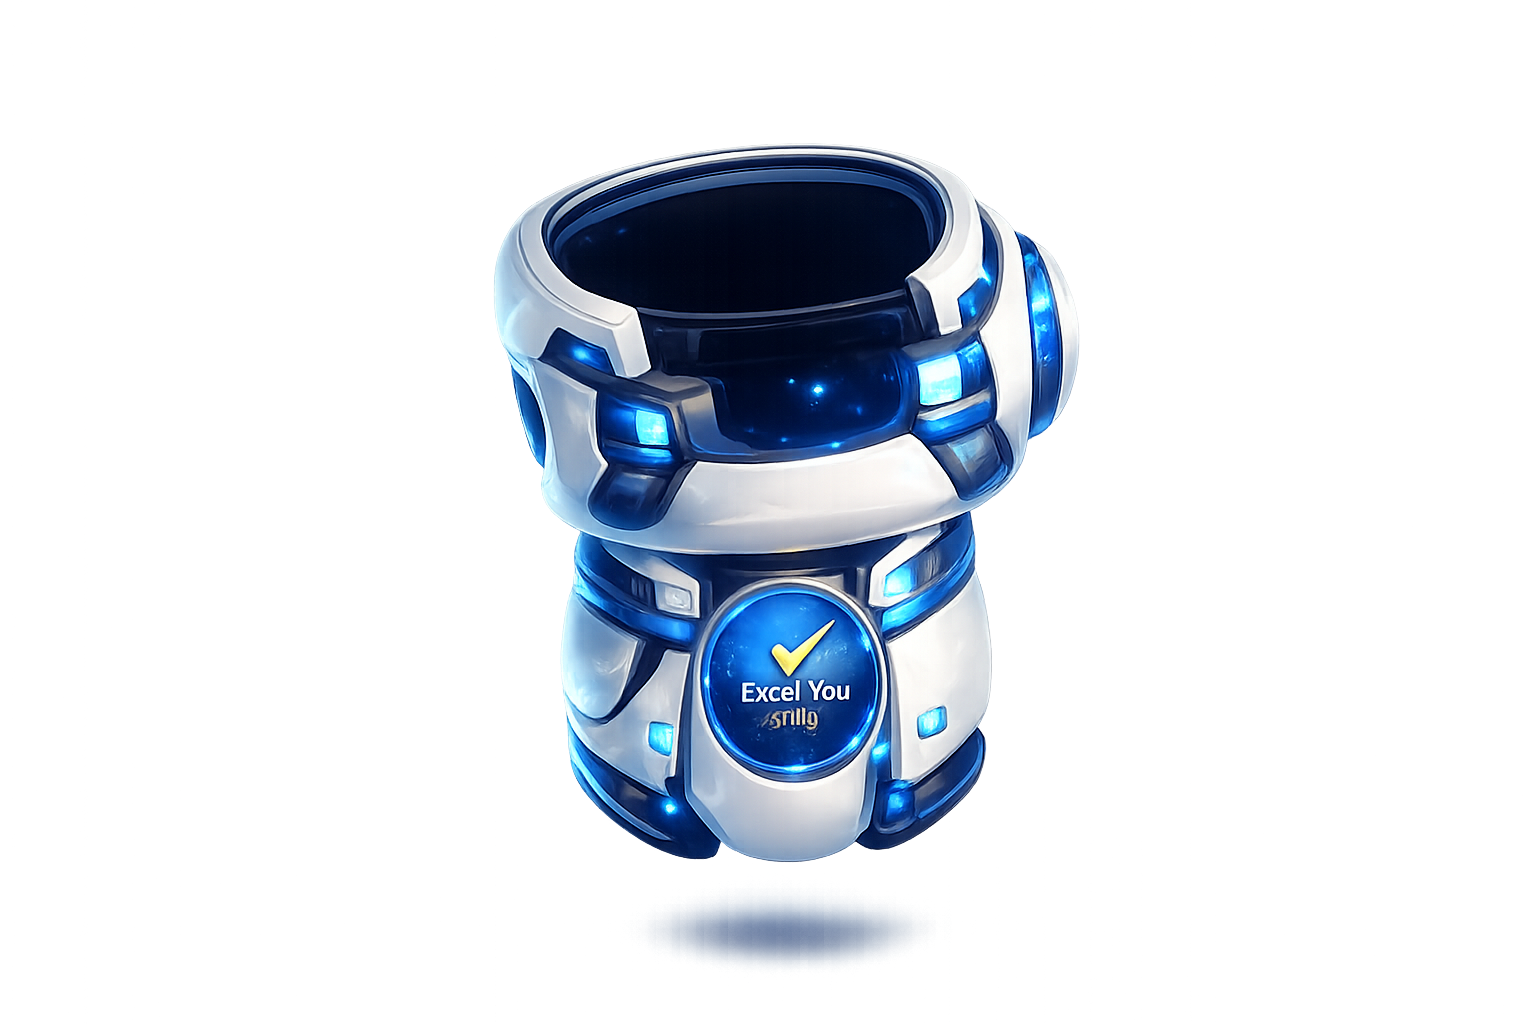
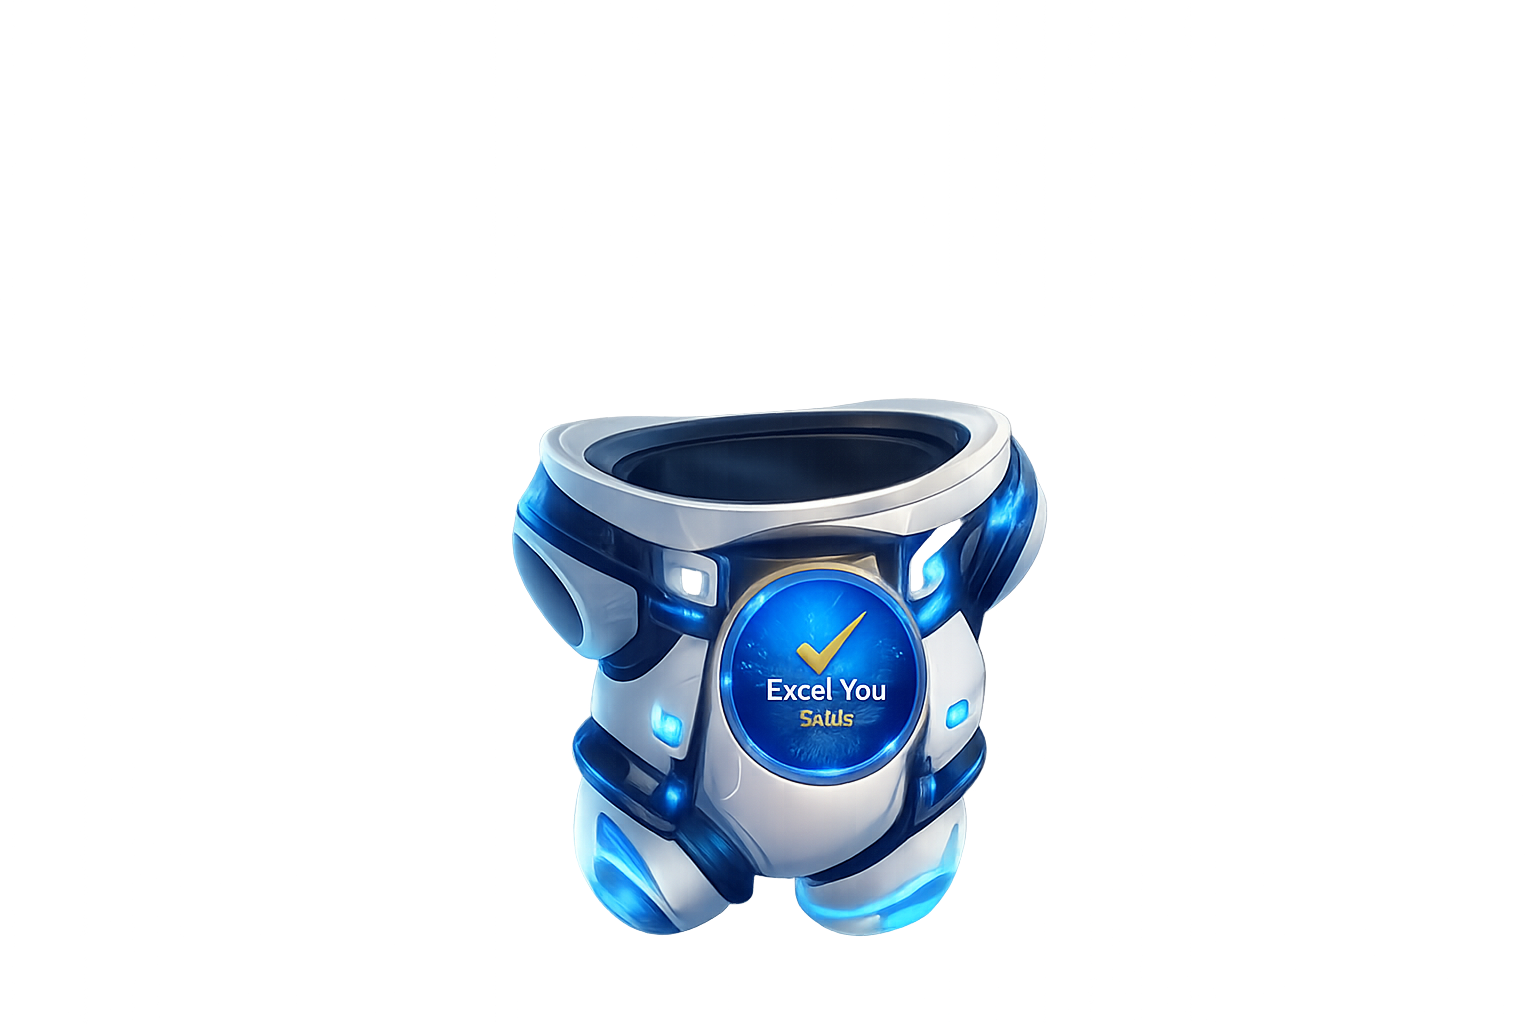
fix mongo session

Changed region(s): [[0.3125, 0.125, 0.7188, 0.9375]]

diff --git a/public/student-login.html b/public/student-login.html
@@ -209,84 +209,15 @@
      ROBOT CONTAINER
 ========================================== -->
 
-<div class="robot-container">
-
-    <!-- Shadow -->
-    <img src="/assets/BUBBLE ROBO/shadow.png"
-         class="robot-part shadow"
-         alt="">
-
-    <!-- Left Wing -->
-    <img src="/assets/BUBBLE ROBO/left wing.png"
-         class="robot-part left-wing"
-         alt="">
-
-    <!-- Right Wing -->
-    <img src="/assets/BUBBLE ROBO/right wing.png"
-         class="robot-part right-wing"
-         alt="">
-
-    <!-- Body -->
+   <!-- Body -->
     <img src="/assets/BUBBLE ROBO/body.png"
-         class="robot-part body"
+         class="robot-body"
          alt="">
 
-    <!-- Left Arm -->
-    <img src="/assets/BUBBLE ROBO/left arm.png"
-         class="robot-part left-arm"
-         alt="">
-
-    <!-- Right Arm -->
-    <img src="/assets/BUBBLE ROBO/right arm.png"
-         class="robot-part right-arm"
-         alt="">
-
-    <!-- Left Hand -->
-    <img src="/assets/BUBBLE ROBO/left hand.png"
-         class="robot-part left-hand"
-         alt="">
-
-    <!-- Right Hand -->
-    <img src="/assets/BUBBLE ROBO/right hand.png"
-         class="robot-part right-hand"
-         alt="">
-
-    <!-- Left Foot -->
-    <img src="/assets/BUBBLE ROBO/left foot.png"
-         class="robot-part left-foot"
-         alt="">
-
-    <!-- Right Foot -->
-    <img src="/assets/BUBBLE ROBO/right foot.png"
-         class="robot-part right-foot"
-         alt="">
-
-    <!-- Head -->
+<!-- Head -->
     <img src="/assets/BUBBLE ROBO/head.png"
-         class="robot-part head"
+         class="robot-head"
          alt="">
-
-    <!-- Left Eye -->
-    <img src="/assets/BUBBLE ROBO/left eye.png"
-         class="robot-part left-eye"
-         alt="">
-
-    <!-- Right Eye -->
-    <img src="/assets/BUBBLE ROBO/right eye.png"
-         class="robot-part right-eye"
-         alt="">
-
-    <!-- Smile -->
-    <img src="/assets/BUBBLE ROBO/smile.png"
-         class="robot-part smile"
-         alt="">
-
-    <!-- Halo -->
-    <img src="/assets/BUBBLE ROBO/hola.png"
-         class="robot-part halo"
-         alt="">
-
-</div>   
 
 
 </div>

diff --git a/public/student/css/CENTER-HOLOGRAM.CSS b/public/student/css/CENTER-HOLOGRAM.CSS
@@ -1,107 +1,72 @@
-/*==========================================
-    ROBOT CONTAINER
-==========================================*/
+/*==============================
+    CENTER PANEL
+==============================*/
 
-.robot-container{
+.robot-panel{
 
     position:relative;
 
-    width:450px;
-    height:750px;
+    width:500px;
+    height:650px;
 
     margin:auto;
+
+    overflow:visible;
 
     display:flex;
     justify-content:center;
     align-items:center;
 
-    overflow:visible;
-
 }
 
 
-/*==========================================
-    COMMON PARTS
-==========================================*/
+/*==============================
+        BODY
+==============================*/
 
-.robot-part{
+.robot-body{
 
     position:absolute;
-
-    width:450px;
-    height:auto;
 
     left:50%;
     top:50%;
 
-    transform:translate(-50%,-50%);
+    transform:translate(-50%,-50%) scale(.82);
 
-    user-select:none;
+
+    width:580px;   /* Change this value */
+    height:550px;
+
+    object-fit:contain;
+
+    z-index:20;
+
     pointer-events:none;
 
 }
 
 
-/*==========================================
-    LAYER ORDER
-==========================================*/
+/*==============================
+        HEAD
+==============================*/
 
-.shadow{
-    z-index:1;
-}
+.robot-head{
 
-.left-wing{
-    z-index:2;
-}
+    position:absolute;
 
-.right-wing{
-    z-index:2;
-}
+    left:50%;
+   margin-top:420px ;
 
-.left-foot{
-    z-index:3;
-}
+     width:380px;   
+    height:350px;
+     
 
-.right-foot{
-    z-index:3;
-}
+    transform:
+        translate(-50%, -50%)
+        translateY(-120px);
 
-.body{
-    z-index:4;
-}
+    z-index:30;
 
-.left-arm{
-    z-index:5;
-}
+    pointer-events:none;
 
-.right-arm{
-    z-index:5;
-}
-
-.left-hand{
-    z-index:6;
-}
-
-.right-hand{
-    z-index:6;
-}
-
-.head{
-    z-index:7;
-}
-
-.left-eye{
-    z-index:8;
-}
-
-.right-eye{
-    z-index:8;
-}
-
-.smile{
-    z-index:9;
-}
-
-.halo{
-    z-index:10;
 }
